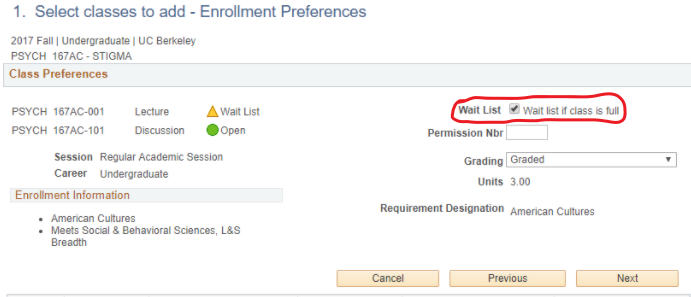
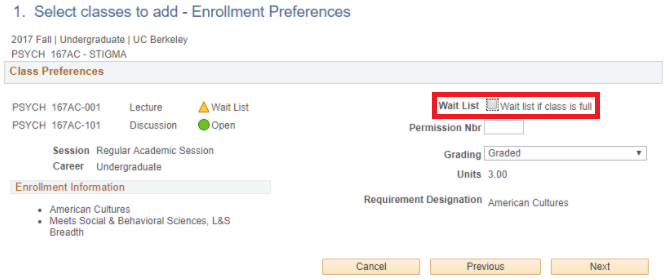
added images, fixed bug

diff --git a/javascript.js b/javascript.js
@@ -12,14 +12,14 @@ var num_buttons = 3;
             "Is the class you're signing up for full?", "Do you have an advisor hold?"];
             var dict = {Main: ["Hi, which phase of enrollment are you in currently?", 3, ["Phase 1", "Phase 2", "Adjustment Period"], ["Phase_1", "Phase_2", "Adjustment"], "Main"],
             Phase_1: ["Are you a declared Psychology major on calcentral?", 2, ["Yes", "No"], ["Psych_Yes", 'Psych_No'], "Main"], 
-            Psych_Yes: ["Are Seats Available on Calcentral? (Don't rely on the green dot)", 2, ["Yes", "No"], ["Avail_yes", 'Avail_no'], "Phase_1"],
+            Psych_Yes: ["Are Seats Available on Calcentral? (Don't rely on the green dot, as this can often be misleading. Look at the class in your scheudle planner, and click on the little 'i' icon. If the Reserve Caps is full, then the class is full for phase 1)", 2, ["Yes", "No"], ["Avail_yes", 'Avail_no'], "Phase_1", ["reserve_caps.png"]],
             Avail_yes: ["You should be clear to enroll! Make sure to select a section with available seats. If you try to enroll in a section that is full, you will be placed on the waitlist.", 0, [], [], 'Psych_Yes', ["Available_Discussion_Seats.JPG"]],
             Avail_no: ["If you are serious about taking the course, we recommend that you add yourself to the waitlist. This way, you have a better chance of enrolling once Phase 2 starts. Were you able to add yourself to the waitlist?", 2, ["Yes", "No"], ["Wait_able", 'Wait_unable'], "Psych_Yes"],
             Wait_able: ["Sit tight! There is a very good chance you will be enrolled when Phase 2 starts.", 0, [], [], "Avail_no"], 
             Wait_unable: ["Which of these errors are you receiving?", 2, ["No Waitlist Available", "Available seats reserved"], ["Error_wait", 'Error_avail'], "Psych_Yes", ["class_full_error.png", "reserved_seat_error.png"]], 
             Error_wait: ["Seats reserved for Psych majors and the waitlist are currently full. Please try to enroll in Phase 2, and if you have any more questions, feel free to email psychscheduling@berkeley.edu", 0, [], [], "Wait_unable", ["class_full_error.png"]],
             Error_avail: ["This message does not mean that you did not satisfy the prerequisite listed on the catalog. Please try again by checking the 'waitlist if full' option on calcentral. Check 'waitlist if full' as shown below to place yourself on the waitlist. This will give you the best chance for getting enrolled in phase 2. If you have other concerns, feel free to email psychscheduling@berkeley.edu", 0, [], [], "Wait_unable", ["waitlist_box.png"]],
-            Psych_No: ["Unfortunately, enrollment in upper division Psychology courses are reserved for declared Psychology Majors during Phase 1. Is the waitlist for the class full?", 2, ["Yes", "No"], ['Wait_yes', 'Wait_no'], "Phase_1"],
+            Psych_No: ["Unfortunately, enrollment in upper division Psychology courses are reserved for declared Psychology Majors during Phase 1. Is the waitlist for the class full? <br> (To check, go to the online schedule of classes and look at 'Waitlist Capacity')", 2, ["Yes", "No"], ['Wait_yes', 'Wait_no'], "Phase_1", ["waitlist_capacity.png"]],
             Wait_yes: ["Unfortunately, the waitlist is currently full. Available seats are reserved for Psychology Majors. Please try to enroll in Phase 2, and if you have any more questions, feel free to email psychscheduling@berkeley.edu", 0, [], [], "Psych_No", ["class_full_error.png"]],
             Wait_no: ["Check 'waitlist if full' on calcentral and place yourself on the waitlist. This will give you the best chance for getting enrolled in phase 2. If you have other concerns, feel free to email psychscheduling@berkeley.edu", 0, [], [], "Psych_No", ["waitlist_box.png"]],
             Phase_2:["Phase 2 hasn't started yet!", 0, [], [], "Main"],
@@ -41,16 +41,26 @@ var num_buttons = 3;
                     }
                 counter = 0;
                 if (dict[value].length > image_index){ 
-                    while (counter < dict[value][image_index].length){
-                        document.getElementById(String(counter)+'i').src = dict[value][image_index][counter];
-                        document.getElementById(String(counter)+'i').style.visibility = "visible";
-                        counter++;
+                    if (dict[value][image_index].length == 1){
+                        document.getElementById('sp').style.visibility = "visible";
+                        document.getElementById("sp").src = dict[value][image_index][counter];
+                    } else {
+                        document.getElementById('sp').style.visibility = "hidden";
+                        document.getElementById('sp').src = "null";
+                        while (counter < dict[value][image_index].length){
+                            document.getElementById(String(counter)+'i').src = dict[value][image_index][counter];
+                            document.getElementById(String(counter)+'i').style.visibility = "visible";
+                            counter++;
+                        }
                     }
                     while (counter < num_images){
                         document.getElementById(String(counter)+'i').style.visibility = "hidden";
+                        document.getElementById(String(counter)+'i').src = "null";
                         counter++;
                     }
                 } else {
+                    document.getElementById('sp').style.visibility = "hidden";
+                    document.getElementById('sp').src = "null";
                     while (counter < num_images){
                         document.getElementById(String(counter)+'i').src = "null";
                         document.getElementById(String(counter)+'i').style.visibility = "hidden";
@@ -75,16 +85,26 @@ var num_buttons = 3;
                 }
                 counter = 0;
                 if (dict[value].length > image_index){ 
-                    while (counter < dict[value][image_index].length){
-                        document.getElementById(String(counter)+'i').src = dict[value][image_index][counter];
-                        document.getElementById(String(counter)+'i').style.visibility = "visible";
-                        counter++;
+                    if (dict[value][image_index].length == 1){
+                        document.getElementById('sp').style.visibility = "visible";
+                        document.getElementById("sp").src = dict[value][image_index][counter];
+                    } else {
+                        document.getElementById('sp').style.visibility = "hidden";
+                        document.getElementById('sp').src = "null";
+                        while (counter < dict[value][image_index].length){
+                            document.getElementById(String(counter)+'i').src = dict[value][image_index][counter];
+                            document.getElementById(String(counter)+'i').style.visibility = "visible";
+                            counter++;
+                        }
                     }
                     while (counter < num_images){
                         document.getElementById(String(counter)+'i').style.visibility = "hidden";
+                        document.getElementById(String(counter)+'i').src = "null";
                         counter++;
                     }
                 } else {
+                    document.getElementById('sp').style.visibility = "hidden";
+                    document.getElementById('sp').src = "null";
                     while (counter < num_images){
                         document.getElementById(String(counter)+'i').src = "null";
                         document.getElementById(String(counter)+'i').style.visibility = "hidden";

diff --git a/index.html b/index.html
@@ -10,6 +10,8 @@
             <a id = "text"> Hi, which phase of enrollment are you in currently? </a>
             <br>
             <br>
+            <input type="image" src="null" name="classError" id="sp" style= "visibility: hidden" />
+            <br>
             <button class="button" value = 'Phase_1' id = '0' onclick="changeText(this.value);">Phase 1</button>
             <br>
             <input type="image" src="null" name="classError" id="0i" style= "visibility: hidden" />
